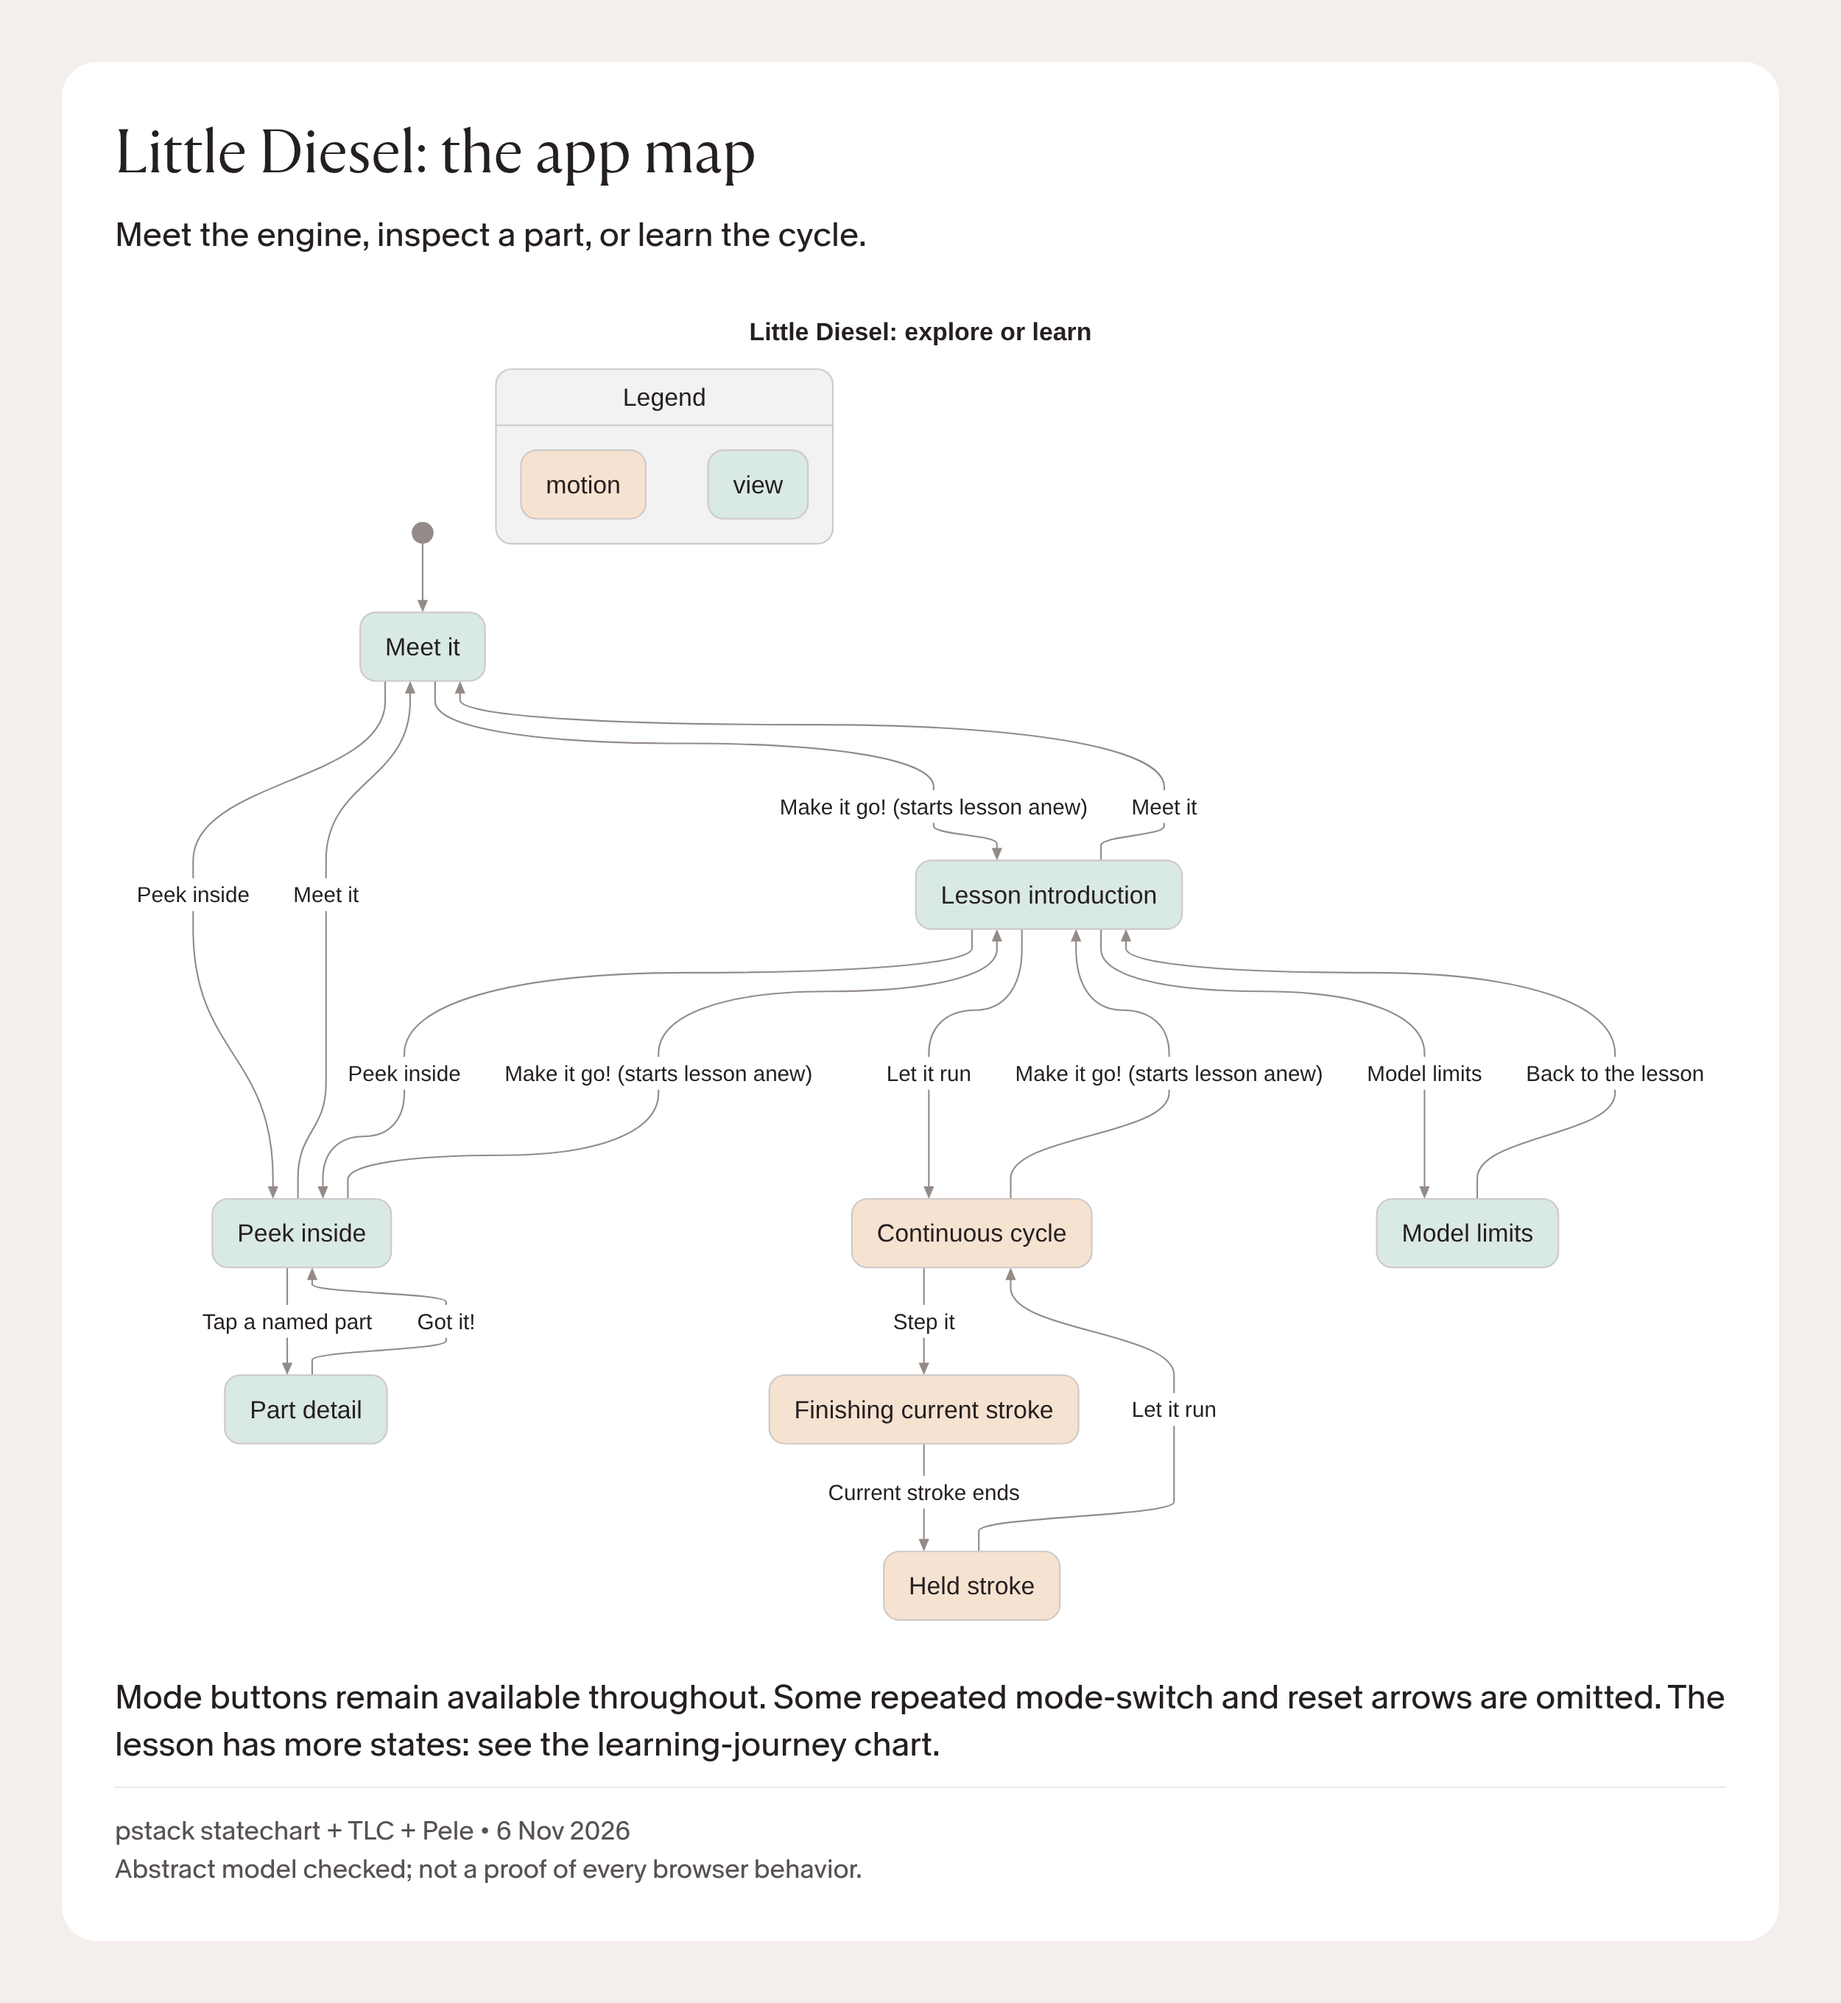
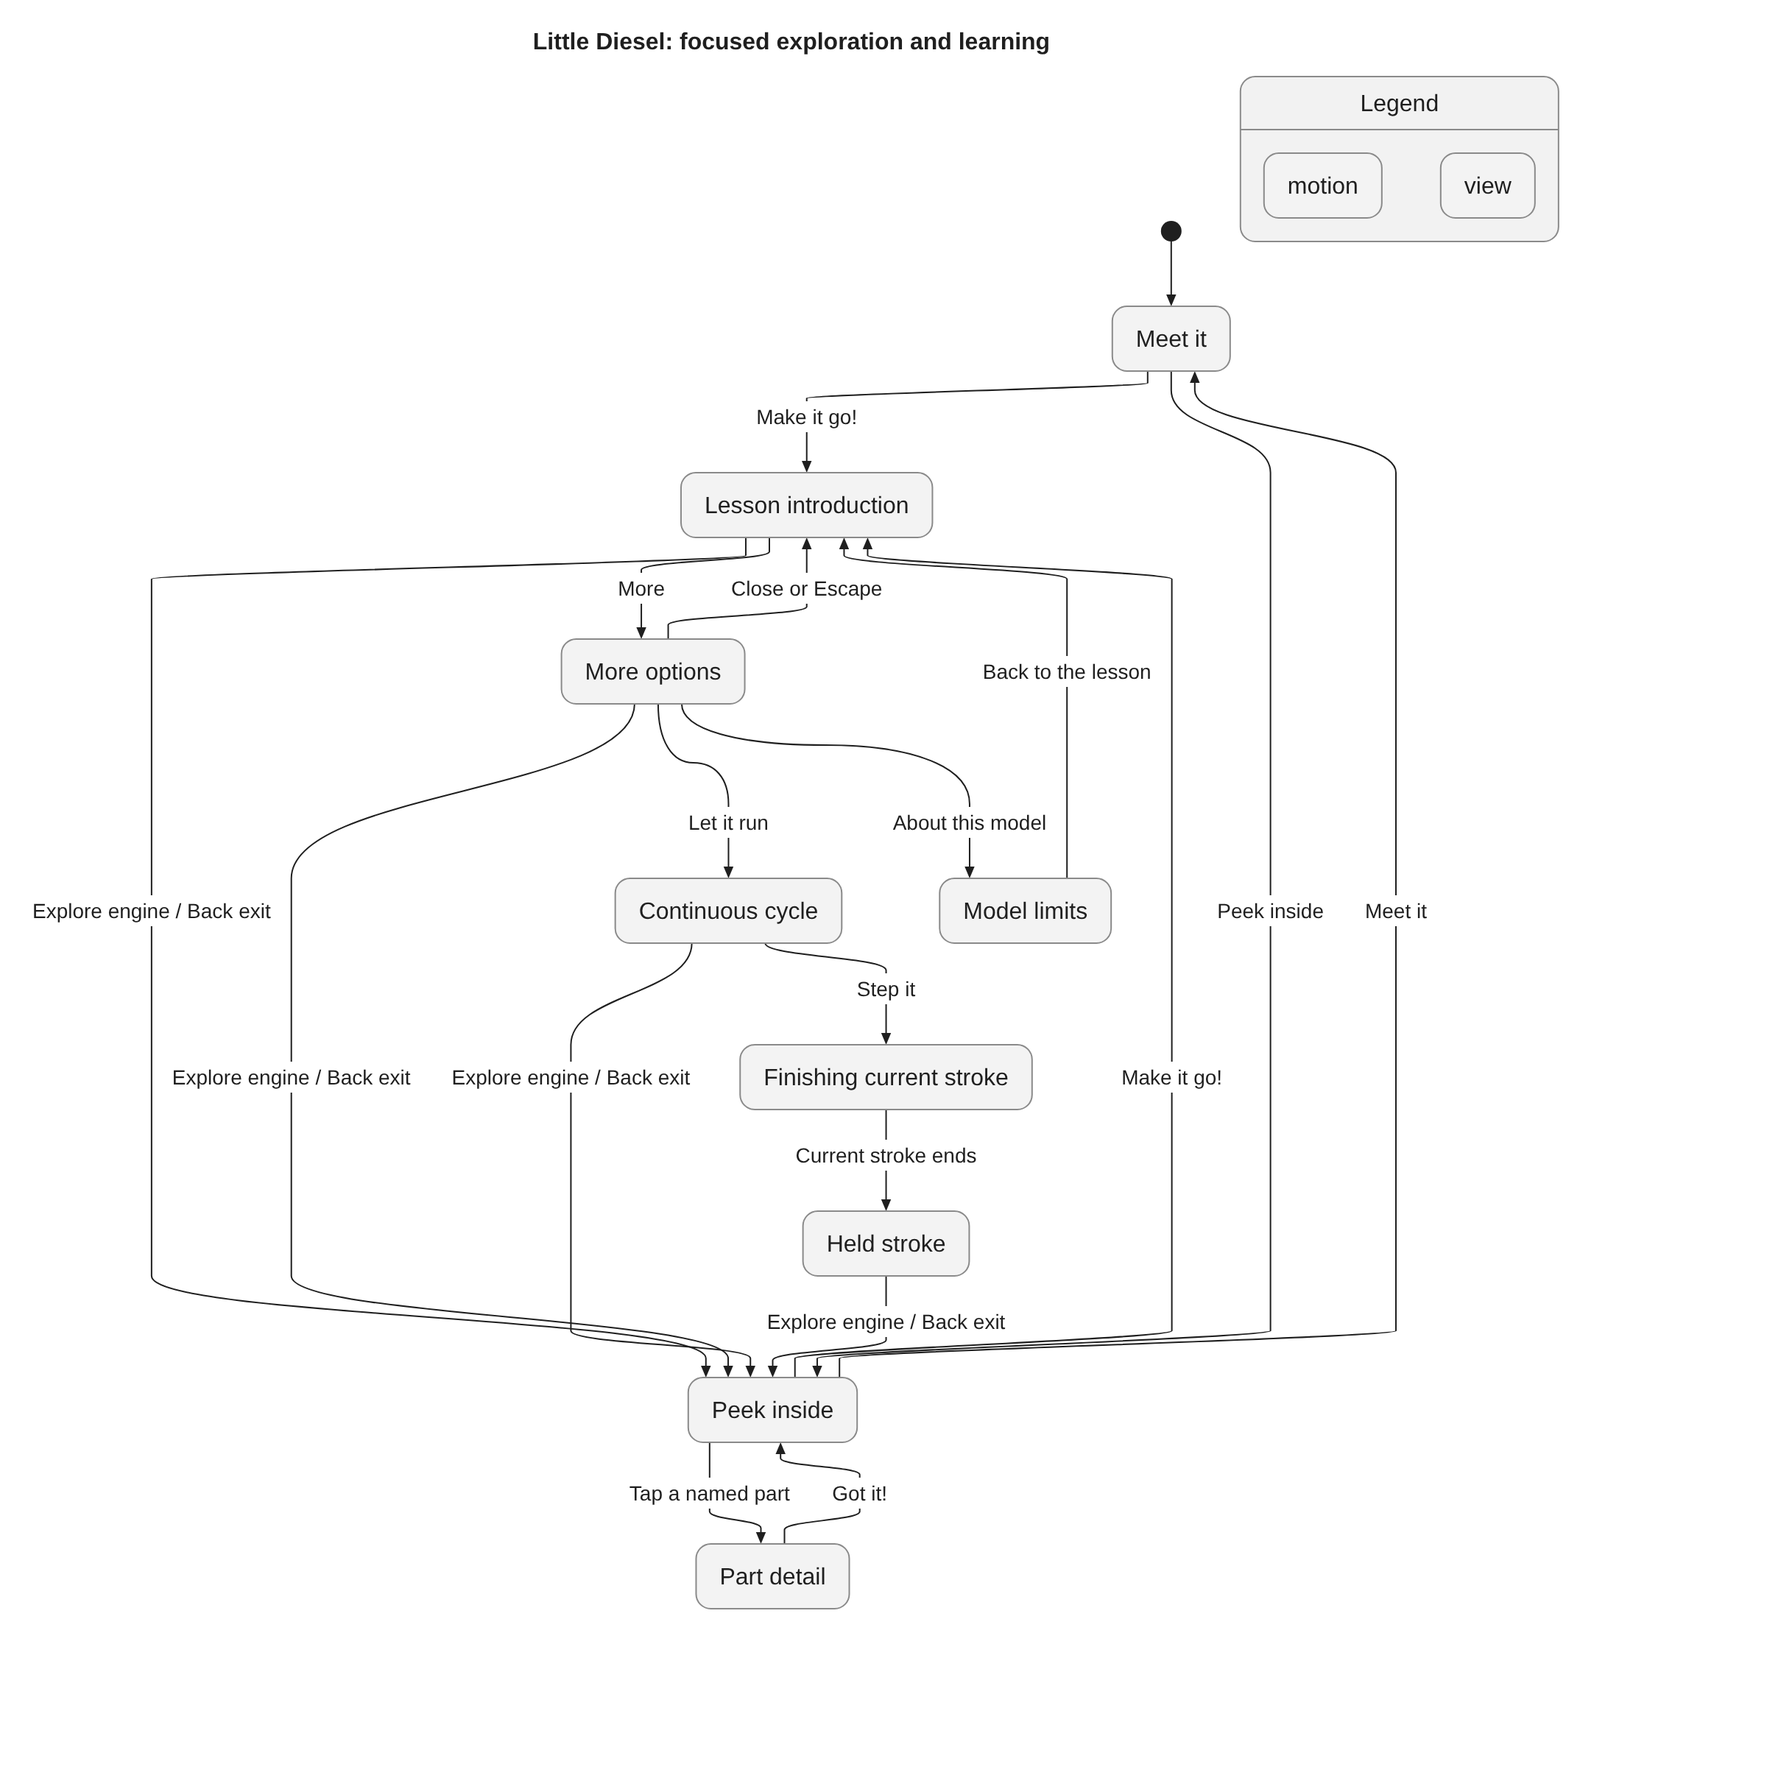
Verify focused controls, accessible menu and synchronized state artifacts

diff --git a/main.js b/main.js
@@ -621,6 +621,7 @@ autoBtn.addEventListener("click", () => {
 });
 
 const moreDialog=document.getElementById('more-dialog');
+moreDialog.addEventListener('keydown',e=>{if(e.key!=='Tab')return;const bs=[...moreDialog.querySelectorAll('button')].filter(b=>!b.hidden&&!b.disabled);const first=bs[0],last=bs.at(-1);if(e.shiftKey&&document.activeElement===first){e.preventDefault();last.focus();}else if(!e.shiftKey&&document.activeElement===last){e.preventDefault();first.focus();}});
 function closeMore(){if(moreDialog.open)moreDialog.close();}
 document.getElementById('journey-more').onclick=()=>moreDialog.showModal();
 document.getElementById('more-close').onclick=closeMore;

diff --git a/styles.css b/styles.css
@@ -274,3 +274,4 @@ body.learning-mode.reasoning #stepui{visibility:hidden}
 #more-dialog button:disabled,#journey-nav button:disabled{opacity:.5;cursor:default}
 #more-dialog button:focus-visible,#journey-nav button:focus-visible{outline:3px solid #285f9b;outline-offset:3px}
 @media(max-height:499px){body.learning-mode #stepui{bottom:84px}body.learning-mode #journey-nav{left:auto;width:272px;right:12px;bottom:18px}}
+#more-dialog button[hidden],#journey-nav button[hidden]{display:none}

diff --git a/STATE_MACHINES.md b/STATE_MACHINES.md
@@ -114,6 +114,30 @@ The generated .agents/skills/verify-little-diesel workflow and3feature map were 
 
 For a behavior change, update the matching table/invariant first, reproduce any claimed failure through a user path, add a failing-before check, fix, rerun regression plus affected spatial/reading checks, then record exact hosted revision and evidence. Keep unverified claims and invalid model-only inputs out of confirmed issues.
 
+## Focused controls (current source, hosted gate pending)
+
+The persistent three-mode row is shown only outside the lesson. Within it: introduction has Start learning, Explore engine and More (3buttons, previously8); prediction keeps3answers+skip+Back+More (6, previously10); feedback/held have Watch it or Next idea plus Back+More (3, previously8). The named-part select is an additional model control, not counted as a button. Continuous playback keeps Step it visible with Back+More. No learning step auto-advances.
+
+More is a modal dialog, closed/open with the underlying phase retained. It pauses the cycle, traps Tab/Shift-Tab, closes on Escape, and returns focus to its opener. It contains Close, Let it run (only stepped), Restart lesson (not at introduction, disabled while a stroke moves), About this model, Explore engine. All visible menu actions are44px minimum. A narrow/short viewport can scroll the menu. Closing More happens before opening another reading surface.
+
+| Current state | Action | Result |
+|---|---|---|
+| intro | Start learning / Explore engine | predict0 / Peek inside |
+| any lesson | More / Close or Escape | pause behind modal / return to previous phase |
+| stepped lesson | More → Let it run | continuous playback from current position |
+| continuous | Step it | finish current stroke and hold |
+| prior lesson phase | Back | prior phase via Previous semantics |
+| moving or continuous | Back | exit to Peek inside, no trapped animation |
+| stepped intro | Back | hidden because there is nothing to go back through; Explore engine remains visible |
+| More | Restart lesson | fresh introduction; unavailable while moving |
+| More | About this model | model-limits surface; returns to underlying phase |
+| teachback | Compare | one explanation, primary changes to Explore engine |
+| revealed teachback | Explore engine | Peek inside; Try again lives under More → Restart |
+
+Legacy hidden Previous/Restart/Model limits elements are compatibility handlers, not exposed competing controls. Model limits is now labeled About this model in More. Earlier tables use those action semantics, not current placement. Focused-controls regression verifies actual current routes.
+
+`tests/focused-controls.cjs` locally passed320/390/1320/844: counts, complete4stroke journey (wrong answer and skips), transfer/teachback, More Tab containment/Escape/focus return,44px menu targets/last item reachable, autoplay visible pause, restart state, moving Back exit. Five state regressions locally390 pass through updated paths. Prior spatial part/bounds regression passes all4widths; full4stroke+wheel journey passed all4widths in two batches (the initial combined120s run stopped after320/390, not counted beyond those). Browser emulation, not physical devices.
+
 ## Committed diagrams and supporting artifacts
 
 [docs/statecharts/README.md](docs/statecharts/README.md) indexes editable TLA+/config/view models, generated Mermaid/SVG, chat-ready PNGs, bounded model-result summaries and safe actual hosted screenshots. Includes separate post-fix note-ownership and idempotent-reveal charts so the implicit machines are not hidden by the original overview. Keep these synchronized with this living file and regression tests. No internal operational material belongs in the public repo.

diff --git a/docs/statecharts/README.md b/docs/statecharts/README.md
@@ -1,6 +1,6 @@
 # Little Diesel state charts
 
-These project-authored charts live with the code. Read [the single living audit](../../STATE_MACHINES.md) for transition tables, confirmed issues and proof boundaries. Last checked against runtime main96a070c (documentation/tests current75e8813),6November2026.
+These project-authored charts live with the code. Read [the single living audit](../../STATE_MACHINES.md) for transition tables, confirmed issues and proof boundaries. Updated for focused controls,6November2026. See the living audit for the final hosted revision.
 
 | Diagram | Editable Mermaid | Rendered SVG | Model |
 |---|---|---|---|
@@ -9,7 +9,7 @@ These project-authored charts live with the code. Read [the single living audit]
 | Autoplay-note ownership after fix | [ownership](generated/ownership.mmd) | [ownership](generated/ownership.svg) | [Ownership](models/Ownership.tla) |
 | Idempotent explanation reveal | [reveal](generated/reveal.mmd) | [reveal](generated/reveal.svg) | [Reveal](models/Reveal.tla) |
 
-The first two PNGs are the chat-ready annotated charts. The SVGs are fresh renders of the committed Mermaid. Ownership and Reveal cover the implicit machines omitted from the first diagrams. Ownership projects cancellation/generation checks into one owner-valid transition; it is not a line-for-line implementation model. Reveal self-loops are not drawn: pressing Compare again stays at one explanation. No invariant breaks were found in these bounded models; that does not prove all app behavior.
+The first two PNGs are current rendered charts. The SVGs are fresh renders of the committed Mermaid. Ownership and Reveal cover the implicit machines omitted from the first diagrams. Ownership projects cancellation/generation checks into one owner-valid transition; it is not a line-for-line implementation model. Reveal self-loops are not drawn: pressing Compare again stays at one explanation. No invariant breaks were found in these bounded models; that does not prove all app behavior.
 
 ## Regenerate
 Use public pstack source e388616361ac78eeb2da66c148d882534aca4cb9, its statechart script, TLC1.7.4 and Pele1.9.0. Outside the repo, provide the pstack checkout and TLC jar. Example from repo root:
@@ -24,3 +24,5 @@ Repeat for Journey/journey-view, Explore/explore-view and Reveal/reveal-view. Co
 The evidence folder contains actual hosted390 screenshots: held power stroke without the stale note, single teach-back explanation after4activations, and reset introduction after rapid controls. Their assertions are in tests/state-browser.cjs. The living audit records failing-before and passing-after observations and exact runtime source hashes. Screenshots contain only the app, no user data. No internal transcripts, prompts, credentials, private paths or raw operational logs are retained here.
 
 For future changes update the living audit, models, Mermaid, renders and regression tests together; rerun model checks and affected real browser paths. A copied file is not execution evidence. The model reports record what actually ran.
+
+Focused controls update: overview includes More, Close/Escape, About this model and explicit exploration exits. This overview models the menu from introduction only; More is available in all lesson phases and returns to the actual underlying phase, as detailed in the living audit. Journey starts with Start learning. Full answer-history/timer/reveal state is split into the separate focused models, not silently claimed by the overview.

diff --git a/.agents/skills/verify-little-diesel/SKILL.md b/.agents/skills/verify-little-diesel/SKILL.md
@@ -11,7 +11,7 @@ The executable `node tests/state-browser.cjs` starts its own static server on an
 Read STATE_MACHINES.md and `git rev-parse HEAD`, then `node --test tests/state-machines.cjs`. Browser helper rejects page errors and asserts actual app controls, not just an answering port. To check production run identical browser helper with TARGET_URL set to the intended live URL; first compare served main.js/learning.js with the selected source revision.
 
 ## Drive
-Read features/README.md. Run `PLAYWRIGHT_PATH=/path/to/playwright EVIDENCE_DIR=/chosen/evidence node tests/state-browser.cjs`. It drives named buttons, #next Enter, #model-note and #restart. Real timer waits are needed to expose stale callbacks. No internal state setters. Do not substitute hidden DOM writes for actions.
+Read features/README.md. Run `PLAYWRIGHT_PATH=/path/to/playwright EVIDENCE_DIR=/chosen/evidence node tests/state-browser.cjs`. It drives named buttons, #next Enter, More → About this model and More → Restart lesson. Real timer waits are needed to expose stale callbacks. No internal state setters. Do not substitute hidden DOM writes for actions.
 
 ## Evidence
 The helper captures one screenshot and JSON outcome per feature under EVIDENCE_DIR (default `/downloads/diesel-state-evidence`). Keep stdout plus git revision beside these. A failing assertion is not a pass; a timeout remains unverified. The app has no persistent side effects. For spatial changes run existing spatial-regression.cjs and spatial-journey.cjs too. Inspect actual images; geometry tests do not prove readable text.
@@ -20,4 +20,4 @@ The helper captures one screenshot and JSON outcome per feature under EVIDENCE_D
 The helper closes only its own browser/server in finally and preserves evidence. Each invocation owns its own random port/browser, so concurrent runs do not share sessions. Do not kill by process name. TARGET_URL mode still creates an unused local server owned and closed by this invocation.
 
 ## Helpers
-`node --test tests/state-machines.cjs` checks reducer reachability; `node tests/state-browser.cjs` runs all mapped state journeys. Map maintenance follows /maintain-verification-skill when behavior changes.
+`node --test tests/state-machines.cjs` checks reducer reachability; `node tests/state-browser.cjs` runs mapped state journeys. `node tests/focused-controls.cjs` checks fourwidth complete learning/menu/counts/focus/exit paths. Map maintenance follows /maintain-verification-skill when behavior changes.

diff --git a/.agents/skills/verify-little-diesel/features/teachback.md b/.agents/skills/verify-little-diesel/features/teachback.md
@@ -6,12 +6,12 @@ Verify teach-back reveal through actual browser events.
 - Four-stroke completion, transfer skip, repeat reveal.
 
 ## How to get to it (user POV)
-Make it go! → Think through the first move.
+Make it go! → Start learning.
 
 ## Driving it with Playwright
 Preconditions: fresh context and initialized app.
 - Run the state-browser helper described in the parent skill.
-- For each of4strokes: Show me this move first → Watch it → held Next idea / Try a new case. Choose Think aloud, then Compare4times. Require one explanation.
+- For each of4strokes: Show me this move first → Watch it → held Next idea / Try a new case. Choose Think aloud, then Compare, then confirm one explanation and Explore engine. Require one explanation.
 - Require no page errors; retain the named screenshot/JSON.
 
 ## Gotchas

diff --git a/.agents/skills/verify-little-diesel/features/controls.md b/.agents/skills/verify-little-diesel/features/controls.md
@@ -11,8 +11,8 @@ Make it go! after repeated Peek inside / Make it go! selections.
 ## Driving it with Playwright
 Preconditions: fresh context and initialized app.
 - Run the state-browser helper described in the parent skill.
-- Start → skip → press #next Enter twice → Model limits → Back to lesson → require held Next idea → Start over → introduction.
+- Start → skip → press #next Enter twice → More → About this model → Back to lesson → require held Next idea → More → Restart lesson → introduction.
 - Require no page errors; retain the named screenshot/JSON.
 
 ## Gotchas
-- Model limits pauses an underway move; close it before waiting for the boundary.
+- More → About this model pauses an underway move; close it before waiting for the boundary.

diff --git a/.agents/skills/verify-little-diesel/features/playback.md b/.agents/skills/verify-little-diesel/features/playback.md
@@ -6,7 +6,7 @@ Verify playback ownership through actual browser events.
 - Continuous playback, pending note, step return.
 
 ## How to get to it (user POV)
-Make it go! → Explore the moving engine instead.
+Make it go! → More → Let it run.
 
 ## Driving it with Playwright
 Preconditions: fresh context and initialized app.
